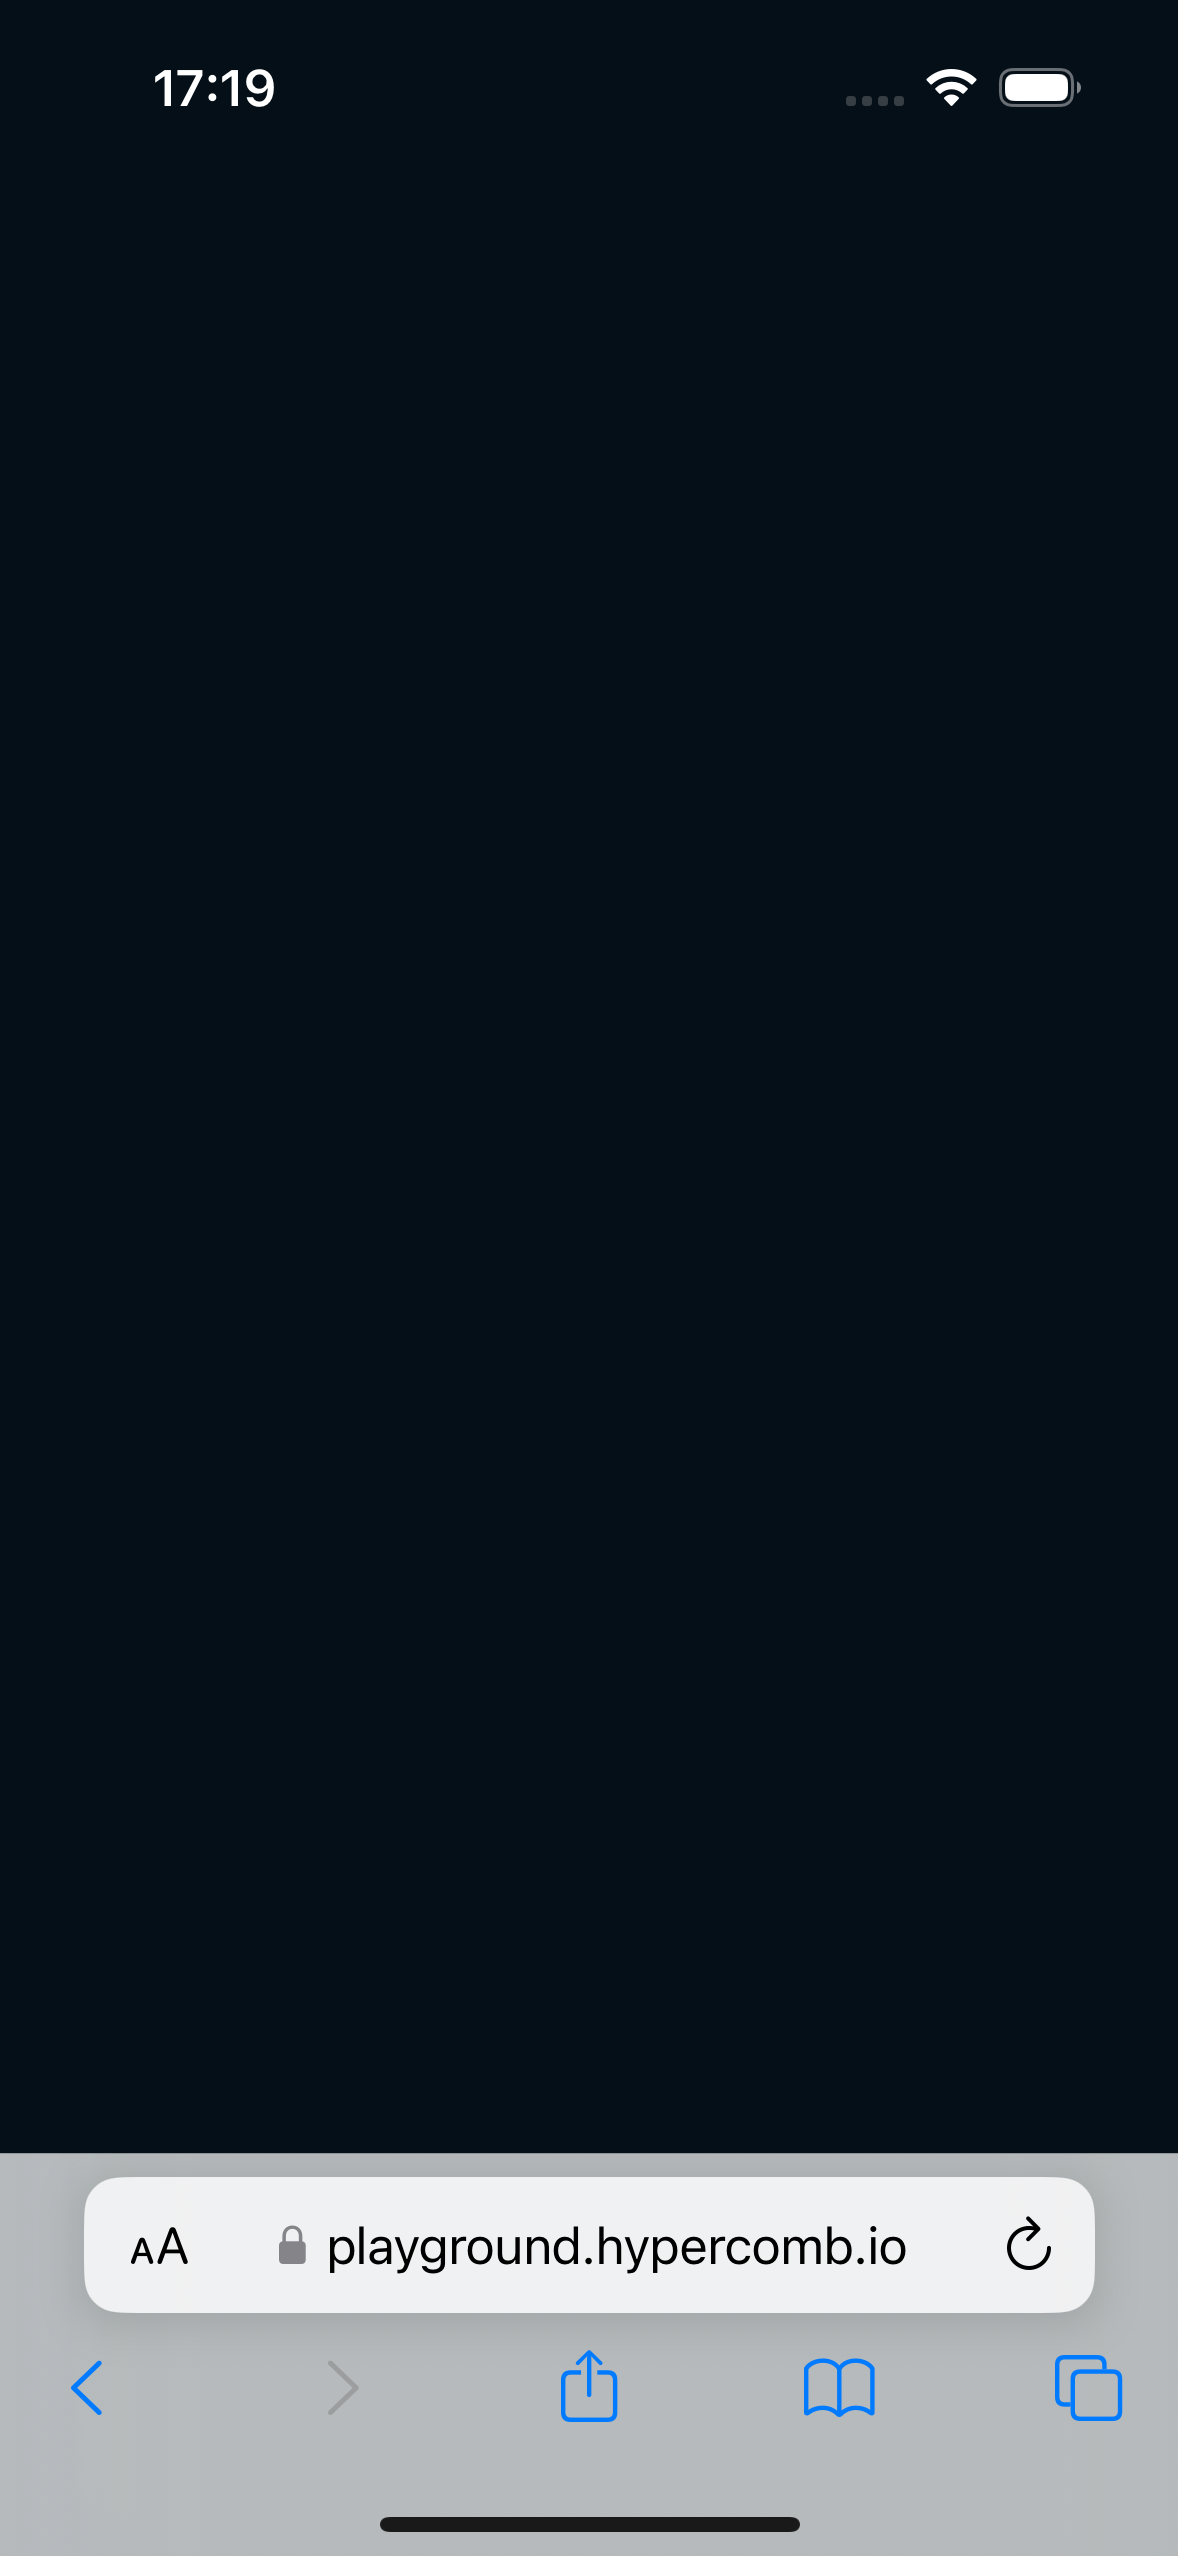
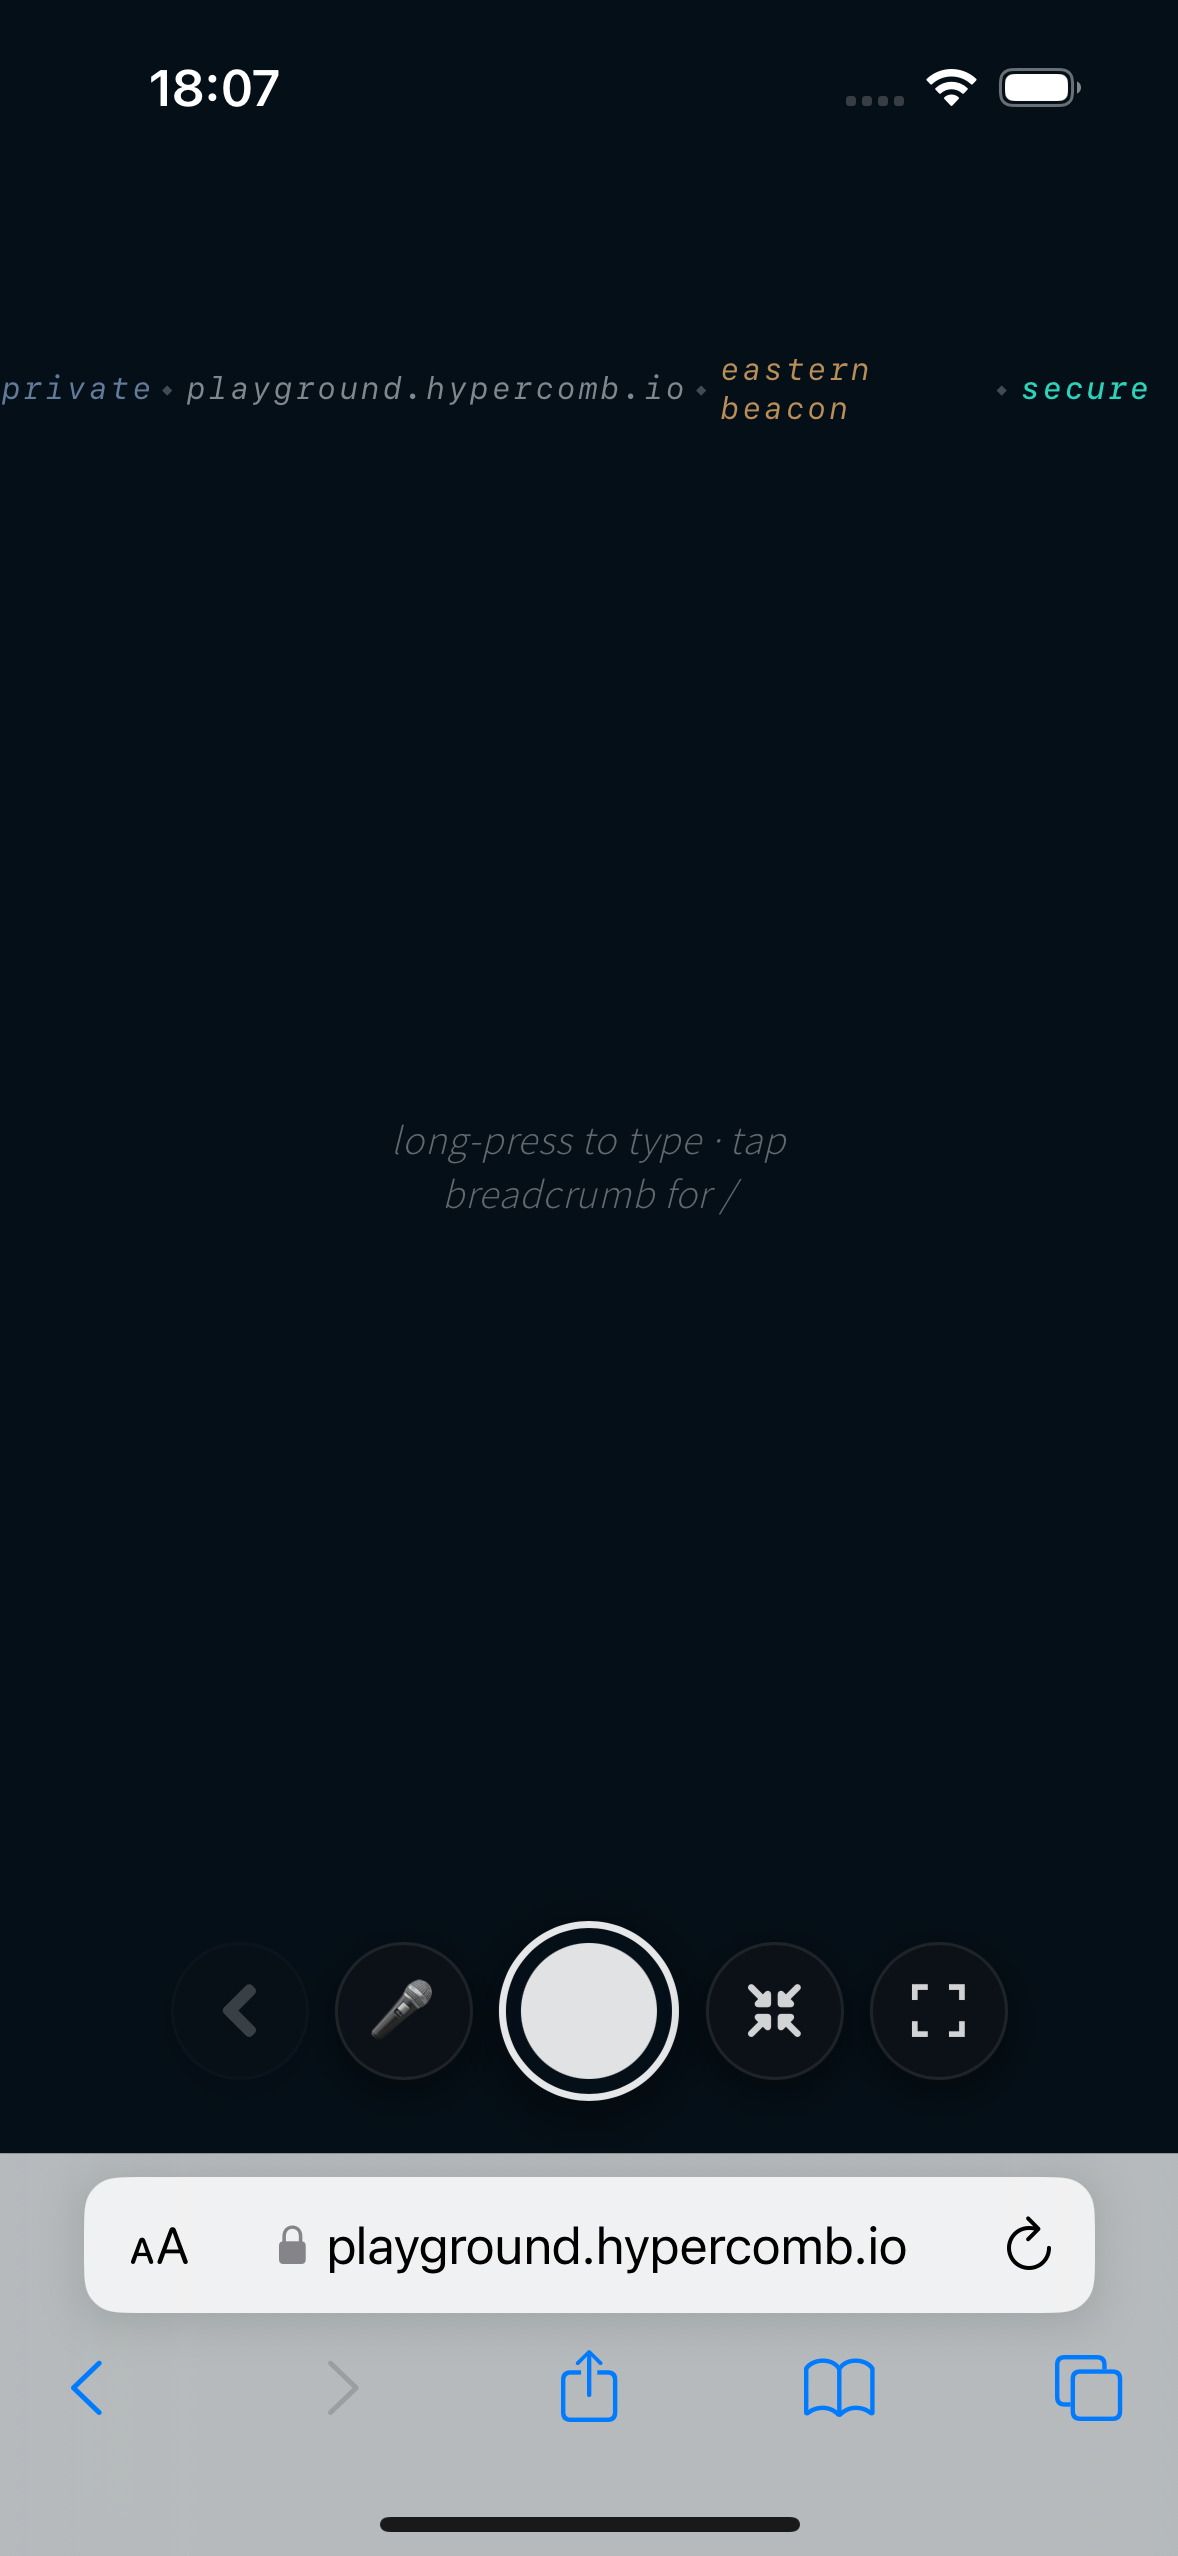
Two changes to push:   - src/hypercomb-web/public/opfs-write.worker.js (new)   - src/hypercomb-web/src/setup/opfs-write.ts (uses same-origin URL now instead of blob URL)

diff --git a/src/hypercomb-web/src/setup/opfs-write.ts b/src/hypercomb-web/src/setup/opfs-write.ts
@@ -7,29 +7,11 @@ let _worker: Worker | null = null
 let _nextId = 0
 const _pending = new Map<number, { resolve: () => void; reject: (e: Error) => void }>()
 
-const WORKER_SRC = `
-self.onmessage = async ({ data: { id, dirs, name, bytes } }) => {
-  try {
-    const root = await navigator.storage.getDirectory()
-    let dir = root
-    for (const d of dirs) dir = await dir.getDirectoryHandle(d, { create: true })
-    const handle = await dir.getFileHandle(name, { create: true })
-    const sah = await handle.createSyncAccessHandle()
-    sah.truncate(0)
-    sah.write(new Uint8Array(bytes), { at: 0 })
-    sah.flush()
-    sah.close()
-    self.postMessage({ id })
-  } catch (e) {
-    self.postMessage({ id, error: String(e) })
-  }
-}
-`
-
 function ensureWorker(): Worker {
   if (_worker) return _worker
-  const blob = new Blob([WORKER_SRC], { type: 'application/javascript' })
-  _worker = new Worker(URL.createObjectURL(blob))
+  // Same-origin URL so the worker shares the page's OPFS storage partition.
+  // A blob: worker URL is storage-partitioned separately on iOS Safari.
+  _worker = new Worker('/opfs-write.worker.js')
   _worker.onmessage = ({ data: { id, error } }: MessageEvent<{ id: number; error?: string }>) => {
     const p = _pending.get(id)
     if (!p) return

diff --git a/src/hypercomb-web/public/opfs-write.worker.js b/src/hypercomb-web/public/opfs-write.worker.js
@@ -1,0 +1,19 @@
+// Dedicated worker for OPFS writes on iOS Safari (createWritable unavailable).
+// Uses FileSystemSyncAccessHandle, which is worker-only but iOS-supported.
+// Served as a same-origin file so navigator.storage shares the page's OPFS partition.
+self.onmessage = async ({ data: { id, dirs, name, bytes } }) => {
+  try {
+    const root = await navigator.storage.getDirectory()
+    let dir = root
+    for (const d of dirs) dir = await dir.getDirectoryHandle(d, { create: true })
+    const handle = await dir.getFileHandle(name, { create: true })
+    const sah = await handle.createSyncAccessHandle()
+    sah.truncate(0)
+    sah.write(new Uint8Array(bytes))
+    sah.flush()
+    sah.close()
+    self.postMessage({ id })
+  } catch (e) {
+    self.postMessage({ id, error: String(e) })
+  }
+}